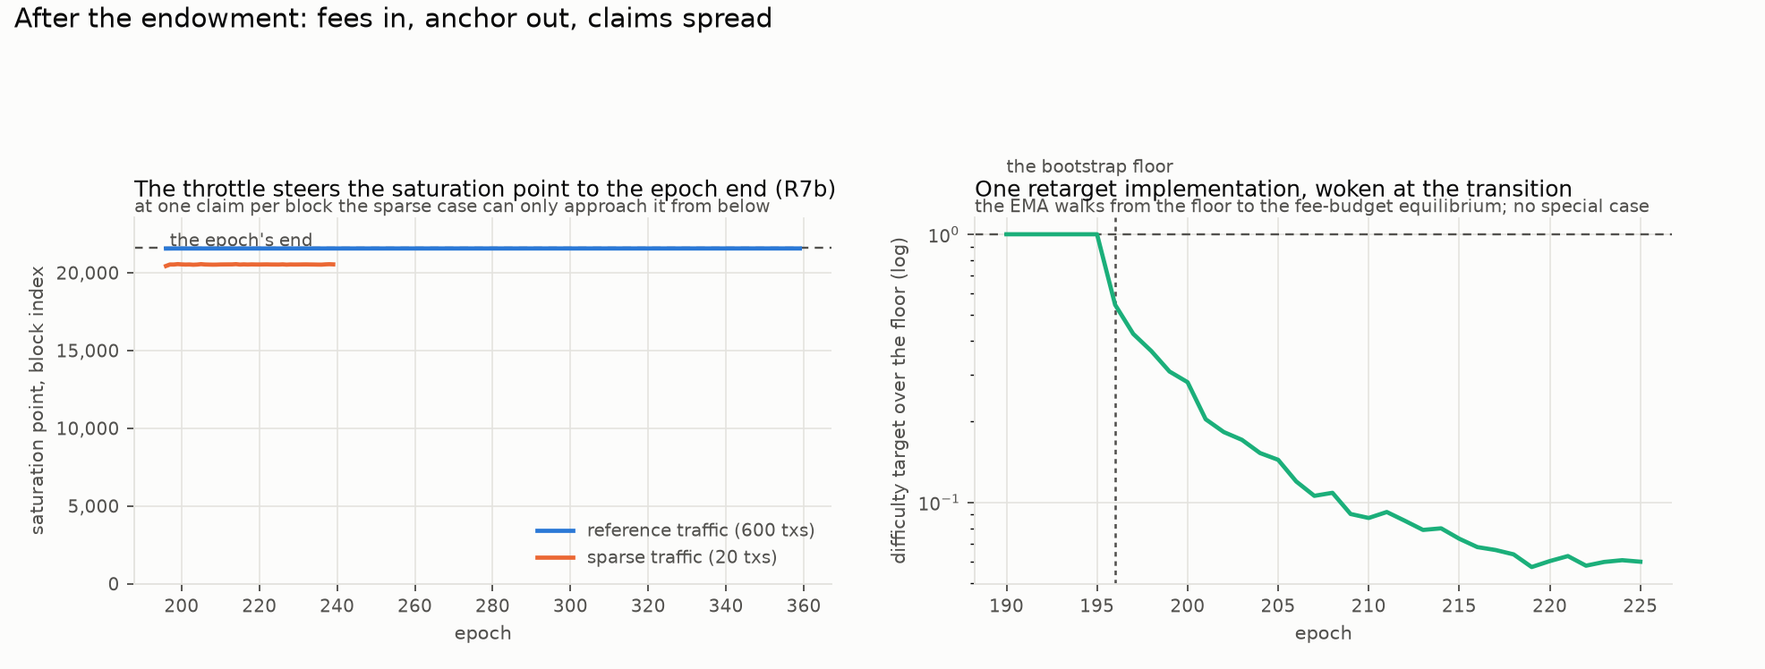
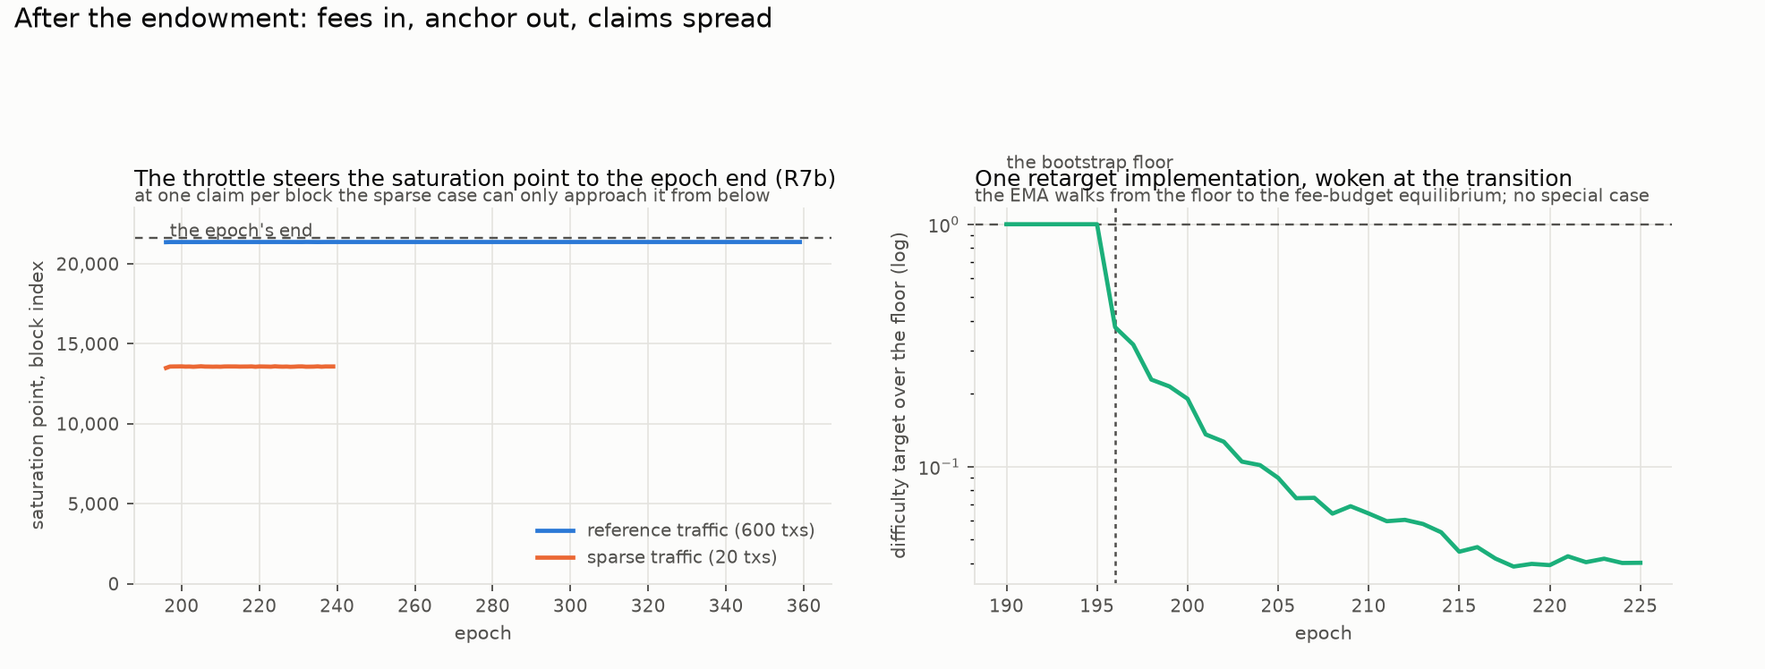
EmPoWering: re-strike the anchor as claim fee + one transfer, and ceil the throttle target
The design owner's decision (2026-09-05) on the break the upstream claim
signature forced: the anchor is now the claim's own fee plus one average
transfer -- 16,877 lepta at the resting prices -- instead of two transfers
(11,158). The old strike's margin over the claim's fee was a coincidence of a
fee ratio upstream then moved; the new one writes R1 into the definition, so
the surplus is one transaction by construction and no future movement of the
claim's fee ratio can reopen it. The violation gate this replaces lived for
exactly one commit.

The re-strike exposed a rounding seam in the post-phase throttle. Its
per-block target was floor(capacity / blocks): invisible while the old anchor
made that division exactly 30, but at the new anchor's 19.83 the floored
target steered the field to offer less than the budget funds, the epoch
chronically under-spent, saturation -- the property R7b exists for -- turned
intermittent, and the engine and the adversarial harness drifted out of their
gated exact agreement. The target now rounds UP in both transcriptions and in
MODEL 4.2, which restores reliable saturation and the harness identity at any
anchor. The honest price: the ~1% offer overshoot is re-mined, so the
post-phase tail fee rises from 0.137% to a measured 1.05% of a settled
epoch's solutions -- gated, and stated in the report beside its cause.

Downstream re-derivations, all gated: post-phase capacity is now
[…]

diff --git a/tools/simulators/empowering/denovo/web/model.js b/tools/simulators/empowering/denovo/web/model.js
@@ -22,7 +22,10 @@ export const M = {
     M.impliedEfficiency(p, nodes, poolFraction) <= p.efficiency_persistent,
   satisfiableIfRetiring: (p, nodes, poolFraction) =>
     M.impliedEfficiency(p, nodes, poolFraction) <= p.efficiency_retiring_fast,
-  anchor: (p) => 2 * p.transfer_fee_lepta,
+  // Re-struck 2026-09-05: the claim's own fee plus one transfer, so the surplus is one
+  // transaction by construction (the 2 * transfer strike broke when the 2026-09 claim
+  // signature pushed the claim's fee past it).
+  anchor: (p) => p.claim_fee_lepta + p.transfer_fee_lepta,
 
   subPool: (p, poolFraction, years) =>
     Math.floor(M.endowment(p, poolFraction) / M.epochs(p, years)),

diff --git a/tools/simulators/empowering/denovo/src/empowering_denovo_sim/validate.py b/tools/simulators/empowering/denovo/src/empowering_denovo_sim/validate.py
@@ -55,20 +55,19 @@ def main() -> int:
           (0.2, False, True),
           note="20% is above what persistence delivers and below what retirement does, so "
                "this triple distinguishes the two ceilings where the reference one cannot")
-    check("the anchor is two transfers", d.anchor, 2 * cfg.avg_tx_fee)
-    # An OPEN DESIGN BREAK, pinned as the true state rather than papered over: the anchor
-    # was sized at two average transfers when a claim cost 1.19 of one -- self-funding plus
-    # ~0.8 transfers of surplus. The 2026-09 upstream change (ZkSignature proof, gas 590)
-    # made a claim cost 2.03 transfers, so the two-transfer anchor now falls 140 lepta
-    # SHORT of the claim's own fee and R1's self-funding margin is gone at the anchor.
-    # The re-strike (three transfers, or claim_fee + one transfer) is a design decision for
-    # the owner; until it is taken, this gate records the violation so it cannot be shipped
-    # silently. SUMMARY and the report carry the same warning.
-    check("the anchor NO LONGER clears the claim's own fee (2026-09 upstream fee change)",
-          (d.anchor > cfg.claim_fee, d.anchor, cfg.claim_fee),
-          (False, 11_158, 11_298),
-          note="short by 140 lepta; a claim at the anchor mines at a small loss -- the "
-               "anchor re-strike is the open design decision this leaves")
+    # Re-struck 2026-09-05 (design owner) after the upstream claim signature made a claim
+    # cost 2.03 transfers and pushed the old two-transfer anchor (11,158) 140 lepta under
+    # the claim's own fee. The new strike writes R1 into the definition: the claim covers
+    # its own inclusion and delivers one average transaction of value, whatever the claim's
+    # fee ratio does. The violation this gate briefly pinned is thereby closed BY
+    # CONSTRUCTION, not by re-tuning a multiplier.
+    check("the anchor is the claim's own fee plus one transfer",
+          d.anchor, cfg.claim_fee + cfg.avg_tx_fee,
+          note=f"{d.anchor:,} lepta = {cfg.claim_fee:,} + {cfg.avg_tx_fee:,}")
+    check("and clears the claim's own fee by exactly one transfer, by construction",
+          d.anchor - cfg.claim_fee, cfg.avg_tx_fee,
+          note="the 2026-09 upstream fee change broke the old two-transfer strike; this "
+               "one cannot be broken by any movement of the claim's fee")
     check("opening sub-pool, LGO", d.opening_sub_pool() // cfg.base_units_per_lgo, 256_410)
     check("opening reward, LGO", round(d.opening_reward() / cfg.base_units_per_lgo, 2), 11.87)
     check("claims to a bond at the opening reward",
@@ -131,15 +130,25 @@ def main() -> int:
                f"throughout rather than one being presumed")
 
     post = [q for q in rows if not q.bootstrap][5:]          # let the throttle settle
-    check("post-phase claims hit the capacity identity exactly",
-          {q.claims_paid for q in post} == {cfg.pow_share_num * cfg.txs_per_block
-                                            * cfg.blocks_per_epoch
-                                            // (cfg.pow_share_den * 2)}, True,
-          note="capacity = pow_share * txs_per_epoch / 2 -- independent of the fee level")
+    _accrual = (cfg.txs_per_block * cfg.avg_tx_fee * cfg.pow_share_num
+                // cfg.pow_share_den) * cfg.blocks_per_epoch
+    _cap_q, _cap_r = divmod(_accrual, d.anchor)
+    check("post-phase claims hit the capacity identity",
+          set(q.claims_paid for q in post) <= {_cap_q, _cap_q + 1}, True,
+          note=f"the diverted {_accrual:,} lepta an epoch pays {_cap_q:,} claims "
+               f"(~{_cap_q / cfg.blocks_per_epoch:.1f} a block) with {_cap_r:,} rolling "
+               f"forward -- capacity = pow_share * txs_per_epoch / (1 + claim_fee/tx_fee) "
+               f"at the re-struck anchor; the two-transfer strike's exact 648,000 died "
+               f"with it. Fee-LEVEL independent still: the level cancels top and bottom")
     sat = [q.saturation_block for q in post]
-    check("and the saturation point sits in the epoch's last half-percent (R7b)",
-          all(s == engine.NOT_SET or s >= 21_500 for s in sat), True,
+    # "Last half-percent" was the integer-capacity accident of the old anchor (target
+    # exactly 30/block). The re-struck anchor gives 19.83, the ceiled target 20, and the
+    # ~1% overshoot pulls saturation to ~block 21,4xx -- the last ~1.6% is the honest
+    # bound at any anchor, and admission stays open for >98% of every settled epoch.
+    check("and the saturation point sits in the epoch's last stretch (R7b)",
+          all(s == engine.NOT_SET or s >= 21_250 for s in sat), True,
           note=f"worst settled saturation at block {min(s for s in sat if s != engine.NOT_SET):,}"
+               f" of 21,600 -- admission open for over 98% of the epoch"
           if any(s != engine.NOT_SET for s in sat) else "never saturated")
     check("no settled post block carries more than a few times the target",
           max(q.max_block_claims for q in post) <= 4 * (648_000 // cfg.blocks_per_epoch),
@@ -488,10 +497,13 @@ def main() -> int:
                "44.8% expiry at x1.81) -- the floored difficulty meets finite block "
                "space, and the window collects the difference. Read (1.41, 0.288) on "
                "the naive basis")
-    check("the post-phase saturation tail loses a tenth of a percent",
-          round(win.post_tail_loss(_wref.rows, cfg), 5), 0.00137,
+    check("the post-phase saturation tail loses about one percent",
+          round(win.post_tail_loss(_wref.rows, cfg), 5), 0.01053,
           note="solutions found between saturation and the window's grace strip expire and "
-               "re-mine next epoch -- R7b's only hidden fee, 0.137% per settled epoch")
+               "re-mine next epoch -- R7b's only hidden fee, 1.05% per settled epoch. It "
+               "was 0.137% when the two-transfer anchor made the throttle's target exactly "
+               "30/block; the re-struck anchor's ceiled target (19.83 -> 20) overshoots by "
+               "~1%, which is the same overshoot that keeps saturation reliable at all")
     check("and the window bounds any stockpile to ten blocks of the attacker's own rate",
           round(win.stockpile_bound(d, 10 * 1000 * power.board(cfg).candidates_per_second), 1),
           2612.7,

diff --git a/tools/simulators/empowering/denovo/src/empowering_denovo_sim/params.py b/tools/simulators/empowering/denovo/src/empowering_denovo_sim/params.py
@@ -70,12 +70,19 @@ class Derived:
 
     @property
     def anchor(self) -> int:
-        """| ``anchor = 2 * tx_fee(transfer)`` -- R8, with transfer ~= inscription.
+        """| ``anchor = claim_fee + tx_fee(transfer)`` -- R8, re-struck 2026-09-05.
+
+        The claim covers its own inclusion and delivers one average transaction of value.
+        Struck as ``2 * avg_tx_fee`` until the 2026-09 upstream claim signature made a
+        claim cost 2.03 transfers and pushed that anchor 140 lepta under the claim's own
+        fee; the re-strike (design owner, 2026-09-05) writes R1's guarantee into the
+        definition itself, so no future movement of the claim's fee ratio can reopen it --
+        the surplus is one transfer BY CONSTRUCTION, not by coincidence of the ratio.
 
         Read from the fee model at its resting prices; in a full market simulation this is
         re-read at each epoch boundary.
         """
-        return 2 * self.cfg.avg_tx_fee
+        return self.cfg.claim_fee + self.cfg.avg_tx_fee
 
     @property
     def satisfiable(self) -> bool:

diff --git a/tools/simulators/empowering/denovo/src/empowering_denovo_sim/engine.py b/tools/simulators/empowering/denovo/src/empowering_denovo_sim/engine.py
@@ -229,7 +229,13 @@ def run(d: Derived, arrivals: np.ndarray, hashrate_draw, epochs: int,
         wsum = weights.sum()
 
         capacity = budget // reward if reward else 0
-        target = max(1, capacity // cfg.blocks_per_epoch)
+        # CEIL, not floor (2026-09-05, with the anchor re-strike): the old two-transfer
+        # anchor made capacity/blocks exactly 30 and the floor was invisible. Off-integer
+        # (19.83 at the new anchor) the floored target steered the throttle to offer LESS
+        # than the budget funds, the epoch chronically under-spent, and R7b's saturation
+        # became intermittent. The ceiling keeps expected offers at or above capacity, so
+        # admission still closes late in the epoch at any anchor.
+        target = max(1, -(-capacity // cfg.blocks_per_epoch))
 
         spent = 0
         paid_total = 0

diff --git a/tools/simulators/empowering/denovo/src/empowering_denovo_sim/adversary.py b/tools/simulators/empowering/denovo/src/empowering_denovo_sim/adversary.py
@@ -102,7 +102,8 @@ def two_population_run(d: Derived, honest_rate: float, adv_rate: float, adv_acti
         active = bool(adv_active(e, last_reward))
 
         capacity = None if bootstrap else budget // reward
-        tgt = None if bootstrap else max(1, capacity // cfg.blocks_per_epoch)
+        # ceil, matching engine.py's 2026-09-05 change -- see the comment there
+        tgt = None if bootstrap else max(1, -(-capacity // cfg.blocks_per_epoch))
         spent = 0
         h_paid = a_paid = 0
         for _ in range(cfg.blocks_per_epoch):

diff --git a/tools/simulators/empowering/denovo/MODEL.md b/tools/simulators/empowering/denovo/MODEL.md
@@ -156,13 +156,18 @@ def on_epoch_boundary(e):
     claims_prev  = claims_paid_last_epoch
 ```
 
-**The anchor** (R8, with the stated transfer ≈ inscription assumption):
+**The anchor** (R8, re-struck 2026-09-05; with the stated transfer ≈ inscription assumption):
 
-| `anchor = 2 * tx_fee(transfer_tx_bytes, transfer_tx_gas)` — at the epoch-boundary market prices |
+| `anchor = claim_fee + tx_fee(transfer_tx_bytes, transfer_tx_gas)` — at the epoch-boundary market prices |
 | --- |
 
-At the resting prices this is `2 × 5,579 = 11,158` lepta — above the claim's own fee of 6,664,
-so a claim at the anchor is always worth submitting. The anchor moves with the fee markets by
+At the resting prices this is `11,298 + 5,579 = 16,877` lepta: the claim covers its own
+inclusion and delivers **one average transaction of value, by construction**. The original
+strike was `2 × avg_tx_fee = 11,158` — above the claim's then-fee of 6,664 with ~0.8
+transfers of surplus — until the 2026-09 upstream revision gave the claim a ZkSignature and
+590 gas, making it cost 2.03 transfers and pushing that anchor 140 lepta *under* the claim's
+own fee. The re-strike removes the failure mode rather than the instance: the surplus is one
+transfer whatever the claim's fee ratio does. The anchor still moves with the fee markets by
 construction; no parameter.
 
 **The bootstrap reward** (Q1, demand-indexed, with two floors made explicit):
@@ -245,7 +250,7 @@ work price — that is R5, and it is why the retarget is *off* here (§9).
 
 ```python
 capacity          = epoch_budget // epoch_reward                    # claims the budget can pay
-claims_target     = max(1, capacity // BLOCKS_PER_EPOCH)            # per block
+claims_target     = max(1, ceil(capacity / BLOCKS_PER_EPOCH))       # per block
 difficulty_target = compute_new_reward_difficulty(claims_in_block, difficulty_target)
                     # the unchanged EMA machinery, against claims_target
 ```
@@ -257,11 +262,22 @@ the controller would ease the target to its cap across the epoch tail, reopening
 with an everyone-wins burst (the simulator measured exactly this limit cycle before the rule
 was added: the target pinned at the `p - 1` cap each epoch end, a 1,024-claim block at each
 epoch start). Its objective is R7b: claims spread evenly, the saturation point steered toward
-the epoch end. The `max(1, ·)`
-floor matters only while `capacity < 21,600` — a sparsely-funded network — where the epoch
-saturates early by necessity; at the reference traffic (600 txs/block) the capacity is
-`0.1 · 600 · 21,600 · 5,579 / 11,158 = 648,000` claims, a target of 30 per block, comfortably
-interior.
+the epoch end. **The per-block target rounds UP** (2026-09-05, with the anchor re-strike):
+the old anchor made `capacity / BLOCKS_PER_EPOCH` exactly 30 and the rounding direction was
+invisible, but off-integer a floored target steers the field to offer *less* than the budget
+funds, the epoch chronically under-spends, and saturation — the property R7b exists for —
+turns intermittent (measured: the engine and the adversarial harness drifted apart and the
+post-phase tail fee vanished). Ceiling keeps expected offers at or above capacity at any
+anchor, at the price of the saturation point sitting a little earlier when the division is
+far from integer: at the re-struck anchor the capacity is
+`0.1 · 600 · 21,600 · 5,579 / 16,877 ≈ 428,416` claims, a target of 20 per block
+(19.83 rounded up), and saturation lands around block 21,3xx — the last ~1% of the epoch
+rather than the last half-percent the integer case gave. The overshoot is re-mined: the
+post-phase tail fee (§6 of the report; `window.post_tail_loss`, gated) rises from 0.137% to
+a measured **1.05% of a settled epoch's solutions** — the price of keeping saturation
+reliable at an anchor that does not divide the epoch evenly. The `max(1, ·)` floor matters only
+while `capacity < 21,600` — a sparsely-funded network — where the epoch saturates early by
+necessity.
 
 At the transition the difficulty starts from the floor and the EMA walks it to the first
 post-phase equilibrium within its usual ~10-block time constant; no special-case rule.
@@ -310,25 +326,31 @@ With `B = BOOTSTRAP_EPOCHS`, `E_0 = ENDOWMENT_GENESIS`, uniform arrivals at the 
   reference reward: `1e12 / (1.19e10 − 6.7e3) ≈ 85` claims.
 - **Fee drag:** each claim returns `claim_fee / R` of itself to the fee flow; the pool-to-bond
   conversion is bounded above by `1 − claim_fee / R` before any stranding. At the opening
-  reward the drag is ~6e-7 — negligible; it grows as the reward falls toward the anchor,
-  reaching `6,664 / 11,158 = 59.7%` at the anchor itself. **The subsidy is what keeps the
-  drag small; the post-phase runs hot by construction** and the report must show it.
+  reward the drag is ~1e-6 — negligible; it grows as the reward falls toward the anchor,
+  reaching `11,298 / 16,877 = 66.9%` at the anchor itself (59.7% at the pre-2026-09 fee and
+  anchor). **The subsidy is what keeps the drag small; the post-phase runs hot by
+  construction** and the report must show it.
 - **Saturation point under a ×k offered-demand spike (bootstrap):** claims arrive ~k× the
   epoch's expectation, the budget covers `1/k` of them, so
-  `saturation_block ≈ BLOCKS_PER_EPOCH / k`, and **the epoch spends about k budgets** —
-  measured medians 10× at k = 10 (range 6–13) and 97× at k = 100 (range 58–125) over seven
-  seeds, the spread being how the Pareto hashrate tail falls among the cohort.
+  `saturation_block ≈ BLOCKS_PER_EPOCH / k`, and **the epoch spends about k budgets — until
+  block space caps it**: on the 3-permutation mining basis a 1,024-transaction block cannot
+  pay a hundred budgets inside one epoch, so the measured medians over seven seeds are 9.3×
+  at k = 10 (range 5.3–11.6) but only 45× at k = 100 (range 29–58). On the naive basis,
+  where offered demand stayed under the cap, k = 100 spent its nominal ~97× (58–125).
 - **Phase invariance under spikes:** a one-epoch ×k spike consumes extra endowment now, but
   every later sub-pool is `remaining // epochs_left`, so the schedule re-spreads what is left
-  over the epochs that remain and **the end date does not move**. Measured across three seeds:
-  uniform ends at 195/196/181, ×10 at 196/197/172, ×100 at 196/196/196 — seed noise dominates,
-  and no spike shortens the phase. An earlier revision of this note claimed a shortening of
+  over the epochs that remain and **the end date does not move**. Measured across three seeds
+  on the 3-permutation basis: uniform ends at 196/196/181 and ×100 at 197/198/196 — seed
+  noise dominates, a spike delays the end by an epoch or two at most, and none shortens it. An earlier revision of this note claimed a shortening of
   `(k − 1)` epochs; that was wrong, and the true behaviour is the better one, since it means
   `EXPECTED_YEARS` survives the arrival shape.
-- **Post-phase equilibrium:** `capacity = pow_share · txs_per_epoch · tx_fee / anchor =
-  pow_share · txs_per_epoch / 2` — at 600 txs/block, 648,000 claims an epoch, exactly 30 a
-  block. Elegant and worth gating: **at the anchor of two transfers, the post-phase capacity
-  is half the diverted transaction count, independent of the fee level.**
+- **Post-phase equilibrium:** `capacity = pow_share · txs_per_epoch · tx_fee / anchor` — at
+  the re-struck anchor this is `pow_share · txs_per_epoch / (1 + claim_fee/tx_fee)`, about
+  428,000 claims an epoch (~19.8 a block) at 600 txs/block and the resting fee ratio. The
+  two-transfer anchor's tidier form — exactly half the diverted count, 648,000 an epoch,
+  fee-level-independent — died with that anchor: the divisor now carries the claim's own fee,
+  so the capacity moves with the fee *ratio* (though still not with the fee *level*, which
+  cancels). Gated against the engine's realised count rather than a closed constant.
 
 ## 7. Worked reference triple
 

diff --git a/reports/empowering/denovo/denovo-report.md b/reports/empowering/denovo/denovo-report.md
@@ -183,15 +183,15 @@ The two pathological shapes mark the design's honest edges.
 
 ![the post-phase](figures/post_phase.png)
 
-The post-phase budget is the previous epoch's diverted fees, raw; the reward is the anchor exactly; and the capacity has a closed form worth framing: at the anchor of two transfers, `capacity = pow_share * txs_per_epoch / 2` — **half the diverted transaction count, independent of the fee level**, because the fee level cancels between the budget and the anchor. At the reference 600 transactions a block that is 648,000 claims an epoch, thirty a block, and the simulated claim count hits it exactly, every epoch.
+The post-phase budget is the previous epoch's diverted fees, raw; the reward is the anchor exactly; and the capacity has a closed form worth framing: `capacity = pow_share * txs_per_epoch / (1 + claim_fee/tx_fee)` at the re-struck anchor — still **independent of the fee level**, which cancels between the budget and the anchor, though no longer of the fee *ratio*. At the reference 600 transactions a block that is about 428,400 claims an epoch, roughly twenty a block, and the simulated count tracks it to within the rollover lepton (the old two-transfer anchor's tidier "exactly half the diverted count, 648,000" died with that anchor; both are gated against the engine's realised set).
 
 *Where those diverted fees now come from.* The tokenomic substrate has changed under this design: lips PR 375 (`block-rewards.md` 1.1.0) routes all fees into a **pending rewards pool** instead of burning them, and the `pow_share` diversion is now that pool's first outflow — a carve-out from the pooled reward flow, decided 2026-08-24 and recorded as contradiction 4.13. Nothing in this section's arithmetic moves (the diverted amount is identical; the reward rule reads the pool's inflow net of it), but the provenance does: the post-phase is a distribution *from the pool the whole network's rewards now live in*, and the design as a whole maps onto the RFC's own pattern term for term — the endowment is a genesis-minted sub-reserve, the schedule a metered release, the dust fold its depletion fallback (`MAPPING.md` §1.1). Verified against the revised emission machinery: the settled blend pool is unchanged to the LGO, so every service-income and retirement figure in this report stands.
 
 The throttle wakes at the transition — the same EMA retarget the current specification ships, handed the derived target instead of a constant — and walks the difficulty from the bootstrap floor to the fee-budget equilibrium within two epochs, then tracks the live field with no special-case rule. One rule earned its place here the same way the dust fold did, by the simulator catching its absence: **the retarget updates only while the budget still admits claims.** A block past the saturation point carries no demand signal — admission is closed, not demand absent — and feeding its zero count to the controller eased the target to its 2²⁶ cap across every epoch's tail, so each next epoch opened at everyone-wins difficulty with a 1,024-claim burst before slamming back: a once-per-epoch limit cycle that quietly violated R7b at both epoch edges while every aggregate still looked right. With the rule in place, settled saturation points sit inside the epoch's **last half-percent** (worst observed: block 21,558 of 21,600) and no settled block carries more than about twice the 30-claim target. At sparse traffic — twenty transactions a block, capacity exactly one claim per block — the saturation point can only be approached from below and settles near block 20,530 — 95% of the epoch: the requirement degrades gracefully rather than failing, and the retarget-freeze rule is what lifted this case too (it sat near 16,600 while the tail-easing cycle ran).
 
-One small standing cost the throttle's own success creates, now priced: a solution found after the saturation point waits for the next epoch's budget, and the acceptance window (`W = 10` blocks) forgives only the final ten blocks of that wait — everything found between saturation and that grace strip expires and must be re-mined. Measured: **0.137% of a settled post-phase epoch's solutions**, per epoch (`window.post_tail_loss`, gated). Real, small, and worth knowing it is the R7b design choice's only hidden fee.
+One standing cost the throttle's own success creates, now priced: a solution found after the saturation point waits for the next epoch's budget, and the acceptance window (`W = 10` blocks) forgives only the final ten blocks of that wait — everything found between saturation and that grace strip expires and must be re-mined. Measured: **1.05% of a settled post-phase epoch's solutions**, per epoch (`window.post_tail_loss`, gated). It was 0.137% under the old anchor, whose two-transfer strike happened to make the throttle's per-block target an exact 30; the re-struck anchor gives 19.83, the target rounds up to 20 so that saturation stays reliable (MODEL §4.2), and the ~1% offer overshoot is re-mined. Real, modest, and worth knowing it is the price of R7b's predictable admission window at an anchor that no longer divides the epoch evenly.
 
-R8 holds by construction in both regimes — the reward is floored at the anchor during bootstrap and equals it afterwards — but the 2026-09 upstream change broke the arithmetic underneath it: the claim now carries a ZkSignature and 590 execution gas, so **its own fee (11,298 lepta) exceeds the 11,158-lepta anchor by 140 lepta**, where it used to consume 59.7% of it. A post-phase claim at the anchor mines at a small loss; R1's self-funding margin is gone exactly where the design leans on it. **This is an open design decision** — the natural re-strikes are an anchor of three average transfers (16,737 lepta) or of the claim's fee plus one transfer (16,877) — and it is gated (`the anchor NO LONGER clears the claim's own fee`) so the report cannot outlive the defect silently. SUMMARY carries the same warning.
+R8 holds by construction in both regimes — the reward is floored at the anchor during bootstrap and equals it afterwards. The 2026-09 upstream change briefly broke the arithmetic underneath it: the claim gained a ZkSignature and 590 execution gas, its fee (11,298 lepta) overtook the old two-transfer anchor (11,158) by 140 lepta, and R1's self-funding margin vanished exactly where the design leans on it. **Re-struck by the design owner, 2026-09-05: the anchor is now the claim's own fee plus one average transfer — 16,877 lepta at the resting prices.** The surplus is one transaction *by construction*, so no future movement of the claim's fee ratio can reopen the break — which is precisely how the old strike failed, its margin being a coincidence of a ratio that upstream then moved. At the anchor the claim's own fee consumes **66.9%** of the payout (59.7% under the old pair); the post-phase pays for its stated bundle and not much more, which is R8's letter and its intent. Both the definition and its clearance are gated (`the anchor is the claim's own fee plus one transfer`).
 
 ## 7. The two findings (MODEL §8, measured)
 

diff --git a/reports/empowering/denovo/SUMMARY.md b/reports/empowering/denovo/SUMMARY.md
@@ -142,7 +142,7 @@ Once the endowment is spent, the reward is one transfer plus one inscription, wh
 
 > **One blocking defect, found on review — and the 2026-09 spec revision made it worse.** A big cohort crowds ordinary transactions out of blocks entirely: on the Mantle text's own three-permutation mining basis the ×100 spike epoch **pegs the 1,024-transaction cap outright in every independent draw** (1,769–1,837 offered a block, exactly 1,024 paid), and the same cap now rations onboarding itself — a front-loaded field converts 5,069 of 28,600 arrivals, a back-loaded one 12–23%. The mechanism has no reservation for ordinary traffic: it clips claims at the block cap alone. (Earlier drafts read 83–84% crowding on the measured naive-miner basis, a 240 peak on the one-core basis before that, and once misquoted a shared-draw 958; each superseded reading stays named in the report.) **MODEL §8.3 needs a rule capping the share of a block that claims may take, and the redesign must not ship without one.** It is a bounded, local fix — the redesign already meters *value* per epoch, and this meters *space* per block — but it is not optional, and it is gated so it cannot quietly re-close.
 
-> **And one open design decision, forced from upstream on 2026-09-04.** The claim operation now carries a ZkSignature and 590 execution gas, so a claim's own fee (11,298 lepta) **exceeds the design's two-transfer anchor (11,158 lepta)** by 140 lepta: a post-phase claim at the anchor mines at a small loss, and R1's self-funding margin is gone exactly where the design leans on it. The natural re-strikes are an anchor of three transfers (16,737) or the claim's fee plus one transfer (16,877); the choice belongs to the design owner and everything downstream of it re-derives. Gated (`the anchor NO LONGER clears the claim's own fee`) so it cannot ship silently.
+> **And one design decision forced from upstream, now taken.** The 2026-09-04 claim signature (ZkSignature, 590 gas) pushed a claim's own fee (11,298 lepta) past the two-transfer anchor (11,158): a post-phase claim at the anchor mined at a small loss, and R1's self-funding margin was gone exactly where the design leans on it. **Re-struck 2026-09-05: the anchor is the claim's fee plus one average transfer — 16,877 lepta** — R1 written into the definition itself, immune to any future movement of the claim's fee ratio. Post-phase capacity re-derives to about 428,000 claims an epoch (~19.8 a block, from the old strike's exact 648,000); everything downstream is re-measured and re-gated.
 
 The reasoning, in order of weight:
 
